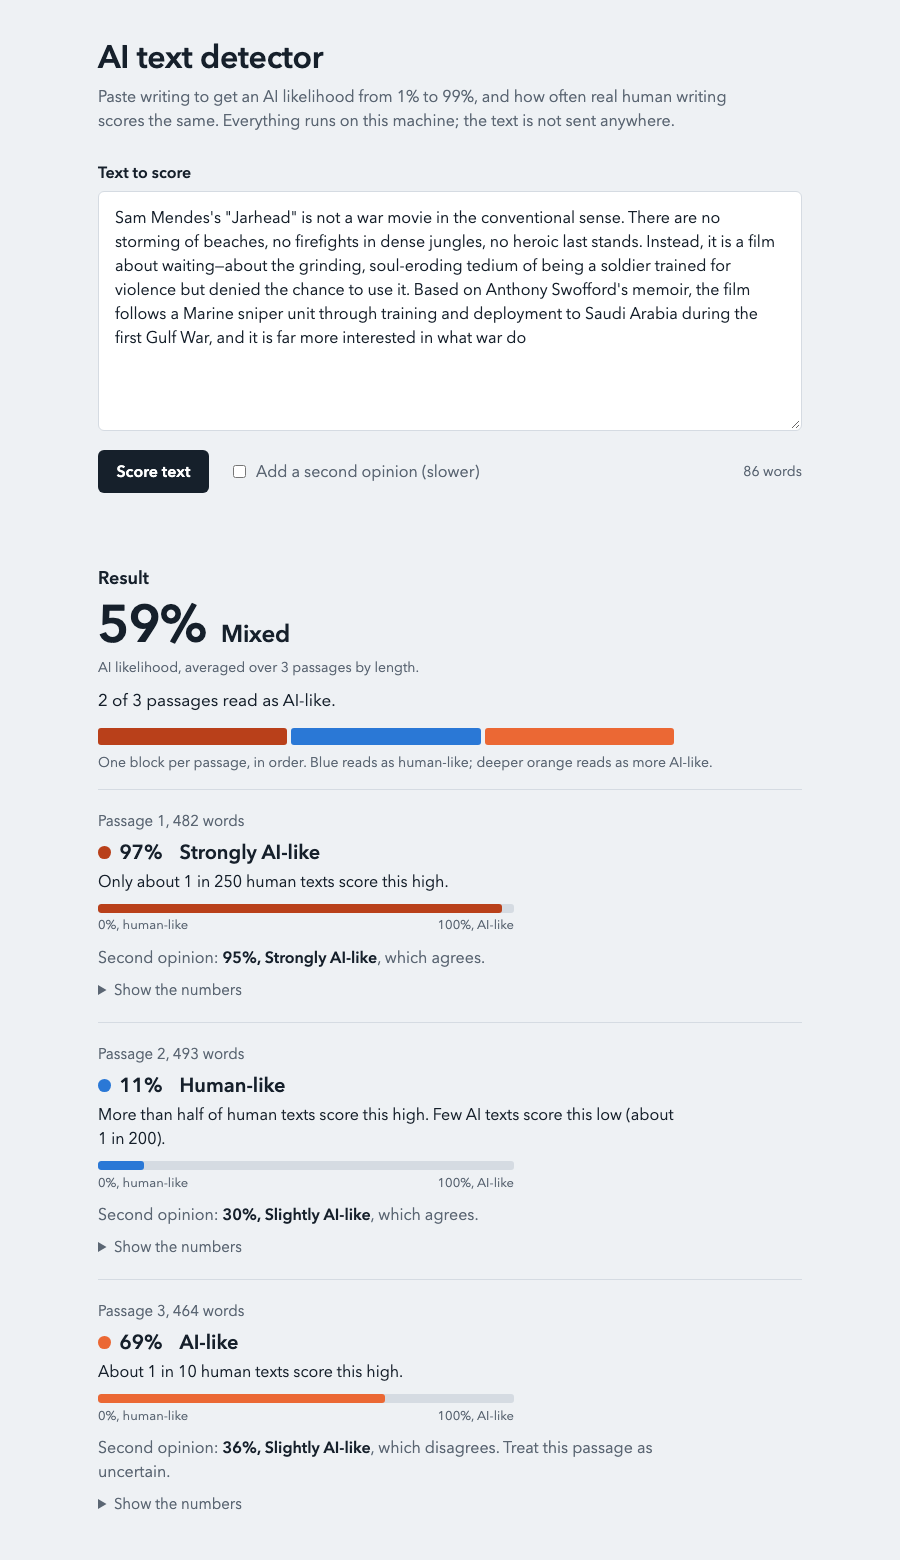
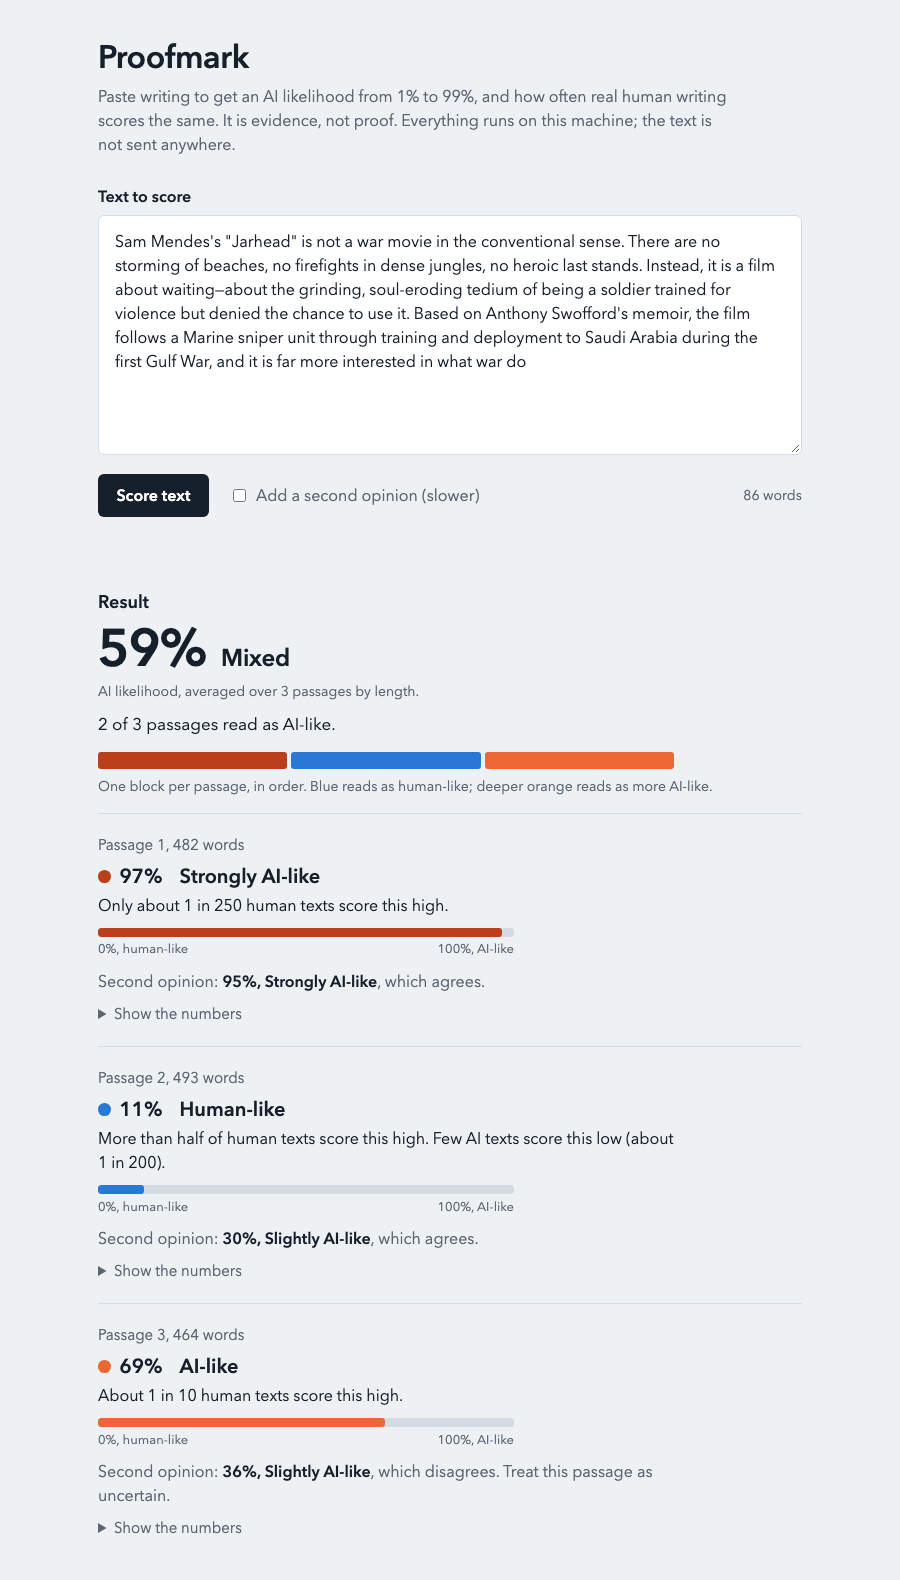
Rename the project to Proofmark and release the code under MIT
The README now presents the detector app and the evaluation together
under the new name. Adds the licence, the shipping decisions and the new
launcher and hub names to the agent guide, and renames the app and MCP
server.

diff --git a/src/detecteval/static/index.html b/src/detecteval/static/index.html
@@ -3,7 +3,7 @@
 <head>
 <meta charset="utf-8">
 <meta name="viewport" content="width=device-width, initial-scale=1">
-<title>AI text detector</title>
+<title>Proofmark</title>
 <style>
   :root {
     --paper: #eef1f4; --surface: #ffffff; --ink: #16202b; --muted: #5b6673; --rule: #d5dbe2;
@@ -102,9 +102,10 @@
 </head>
 <body>
 <main>
-  <h1>AI text detector</h1>
+  <h1>Proofmark</h1>
   <p class="lede">Paste writing to get an AI likelihood from 1% to 99%, and how often real human writing
-    scores the same. Everything runs on this machine; the text is not sent anywhere.</p>
+    scores the same. It is evidence, not proof. Everything runs on this machine; the text is not sent
+    anywhere.</p>
 
   <form id="form">
     <label for="text">Text to score</label>

diff --git a/src/detecteval/serve.py b/src/detecteval/serve.py
@@ -1,4 +1,4 @@
-"""The detector as a small web app and an MCP server, in one process.
+"""Proofmark: the detector as a small web app and an MCP server, in one process.
 
     python -m detecteval.serve          # needs the "ml" and "serve" dependency groups
 
@@ -216,7 +216,7 @@ async def api_detect(request: Request) -> JSONResponse:
 
 
 mcp = MCPServer(
-    "AI text detector",
+    "Proofmark",
     instructions="Scores how AI-like a text is, with measured error rates. A result is evidence, not a verdict: "
                  "never present it as proof that someone used AI.")
 

diff --git a/README.md b/README.md
@@ -1,15 +1,25 @@
-# ai-text-detection-eval
+# Proofmark
 
-How well can AI-written text be told from human writing, and what improves it?
+An AI-likelihood score for writing, with measured error rates. It is evidence, not proof.
 
-This repository is a small, reproducible experiment. It compiles labelled texts and compares three kinds
-of detector on them:
+Proofmark is two things in one repository:
+
+- **A detector you can run.** A local web app and MCP server give a text an AI likelihood from 1% to 99%
+  and say how often real human writing scores the same. Nothing leaves your machine. See
+  [Use the detector](#use-the-detector-web-app-and-mcp-server).
+- **The evaluation behind it.** A reproducible comparison of three kinds of detector on labelled texts,
+  including one student's private pre-ChatGPT writing. It is the reason the app uses a trained classifier
+  and does not ask a general model.
+
+The three kinds of detector compared:
 
 1. asking a general-purpose *decision model* (Cloudflare's Clef, on Workers AI) with no training;
 2. statistical detectors that need no training (Binoculars, Fast-DetectGPT);
 3. a classifier trained on examples, with and without examples from current models.
 
-It is an evaluation harness, not a detector. Nothing here should be used to accuse anyone of using AI.
+Status: a working research project, not a product. The classifier is a small model trained in an hour,
+and the private-writing test covers one writer. Nothing here should be used on its own to accuse anyone
+of using AI.
 
 ## Results in brief (15 November 2026)
 
@@ -203,8 +213,8 @@ Prerequisites: Python 3.11+, [uv](https://docs.astral.sh/uv/). Calling the Clef 
 text also needs a Cloudflare account with Workers AI.
 
 ```sh
-git clone https://github.com/ichen27/ai-text-detection-eval.git
-cd ai-text-detection-eval
+git clone https://github.com/ichen27/proofmark.git
+cd proofmark
 uv sync
 bash ci/run.sh                        # lint and unit tests; needs no credentials
 uv run python -m detecteval.report    # first study: rebuild report and figures from committed scores
@@ -345,7 +355,7 @@ Binoculars and the classifier run locally: about 30 minutes and 60 minutes on an
 | Reports | [results/report.md](results/report.md), [results/comparison.md](results/comparison.md), [results/private_writing.md](results/private_writing.md), with `.json` twins | Markdown, JSON | `report`, `compare`, `private_eval report` |
 | Figures | [results/figures/](results/figures/) | PNG | `report`, `compare` |
 | Reference scores for the detector app | [results/calibration.json](results/calibration.json) | JSON | `calibration` |
-| Trained classifiers (2 × 306 MB) | [release v0.3.0](https://github.com/ichen27/ai-text-detection-eval/releases/tag/v0.3.0) | Hugging Face model folders, gzipped tar | Extract into `RAW_DATA_DIR/models/`, then `python -m detecteval.classify raid mirrors`; or retrain with `train_classifier` |
+| Trained classifiers (2 × 306 MB) | [release v0.3.0](https://github.com/ichen27/proofmark/releases/tag/v0.3.0) | Hugging Face model folders, gzipped tar | Extract into `RAW_DATA_DIR/models/`, then `python -m detecteval.classify raid mirrors`; or retrain with `train_classifier` |
 
[2 lines of base64/hex data omitted]
@@ -377,8 +387,9 @@ a dataset, prompts or the seed, regenerate scores and reports in the same pull r
 
 ## Licence and attribution
 
-No licence has been chosen for the code yet, so default copyright applies. The evaluation sets include
-short excerpts from RAID and from Liang et al. (2023), both MIT-licensed, and Stack Exchange posts under
-CC BY-SA 4.0, which stay under that licence. Sources, attributions, the papers whose methods are
+The code is released under the [MIT licence](LICENSE). The data keeps its own terms: the evaluation sets
+include short excerpts from RAID and from Liang et al. (2023), both MIT-licensed, and Stack Exchange posts
+under CC BY-SA 4.0, which stay under that licence. The released classifier weights are fine-tuned from
+`distilbert/distilroberta-base` (Apache-2.0). Sources, attributions, the papers whose methods are
 implemented here and the models downloaded at run time are listed in
 [THIRD_PARTY_NOTICES.md](THIRD_PARTY_NOTICES.md).

diff --git a/AGENTS.md b/AGENTS.md
@@ -1,14 +1,29 @@
-# ai-text-detection-eval
+# Proofmark
 
-Repository: https://github.com/ichen27/ai-text-detection-eval (private).
-Canonical checkout: `/Volumes/SamsungSSD1/code/ai-text-detection-eval` on the Mac mini SSD.
+Repository: https://github.com/ichen27/proofmark (public; it was named ai-text-detection-eval until
+2026-11-16, and the old address redirects).
+Canonical checkout: `/Volumes/SamsungSSD1/code/ai-text-detection-eval` on the Mac mini SSD. The directory
+and the Python package (`detecteval`) keep their original names.
+
+## Shipping decisions
+
+Recorded 2026-11-16.
+
+- **Launcher:** yes. Deployed to the app launcher as `proofmark`.
+- **Repository visibility:** public, MIT licence for the code.
+- **Name:** brand name, Proofmark, on GitHub and the launcher.
+- **Announcement:** X only. Post link: not posted yet.
+
+The repository is public, so nothing private may be committed: no texts, titles, ids or per-document
+scores from private writing, and no results for documents whose authorship is uncertain (use
+`private_eval report --omit-group`).
 
 ## What this is
 
-A small, reproducible experiment on detecting AI-written text. It compiles labelled text sets and
-compares three kinds of detector on them: decision models asked a typed question with no training
-(Cloudflare Clef), statistical detectors that need no training (Binoculars, Fast-DetectGPT), and a
-classifier fine-tuned on examples. It is an evaluation harness, not a detector product.
+A local AI-text detector (web app and MCP server) and the reproducible evaluation behind it. The
+evaluation compiles labelled text sets and compares three kinds of detector on them: decision models
+asked a typed question with no training (Cloudflare Clef), statistical detectors that need no training
+(Binoculars, Fast-DetectGPT), and a classifier fine-tuned on examples. The app uses the classifier.
 
 ## Layout
 
@@ -55,13 +70,13 @@ classifier fine-tuned on examples. It is an evaluation harness, not a detector p
 
 ## The deployed detector
 
-The service is deployed on the Mac mini through the app launcher as `ai-detector`
-(https://app-ai-detector.chenagent.com, owner sign-in) from [launcher.json](launcher.json), and is
-registered in the MCP hub as the lazy HTTP backend `ai-detector` (tools prefixed `ai_detector__`).
+The service is deployed on the Mac mini through the app launcher as `proofmark`
+(https://app-proofmark.chenagent.com, owner sign-in) from [launcher.json](launcher.json), and is
+registered in the MCP hub as the eager HTTP backend `proofmark` (tools prefixed `proofmark__`).
 
 - It runs from this canonical checkout with its own environment at
   `/Volumes/SamsungSSD1/tools/ai-text-detection/venv`, so `ci/run.sh` and `uv sync` here do not disturb
-  it. Code changes take effect on restart: `node src/cli.mjs restart ai-detector` in the launcher checkout.
+  it. Code changes take effect on restart: `node src/cli.mjs restart proofmark` in the launcher checkout.
   Keep the checkout on `main` when not actively working, or develop service changes in a worktree.
 - After changing dependencies, redeploy with the launcher's `deploy` command so the build step runs.
 - The service must stay light: models load in the worker on demand and the worker is stopped when idle.
